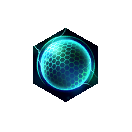
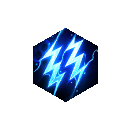
UI 알파 이미지 수정버전

Changed region(s): [[0.2424, 0.2121, 0.7576, 0.7576]]

diff --git a/4Dollor/D3DX_Base/cUIInGame.cpp b/4Dollor/D3DX_Base/cUIInGame.cpp
@@ -80,6 +80,7 @@ void cUIInGame::rednerDead()
 {
 	if (m_Dead.enable)
 	{
+		fadeEfx();
 		m_Dead.sprite->Begin(D3DXSPRITE_ALPHABLEND);
 
 		m_Dead.rotate -= 0.02f;
@@ -388,9 +389,15 @@ void cUIInGame::renderVictory()
 						m_VictoryEfx[2].scale = 3;
 					}
 				}
+				m_VictoryEfx[i].sprite->Draw(m_VictoryEfx[i].texture,
+					&rc,
+					&D3DXVECTOR3(m_VictoryEfx[i].imgInfo.Width / 2, m_VictoryEfx[i].imgInfo.Height / 2, 0),
+					NULL,
+					D3DCOLOR_ARGB(m_VictoryEfx[i].alpha, 255, 255, 255));
 			}
 			if (i == 2)
 			{
+				fadeEfx();
 				m_VictoryEfx[i].rotate += 0.01;
 
 				m_VictoryEfx[i].alpha += 10;
@@ -443,6 +450,28 @@ void cUIInGame::renderVictory()
 			m_VictoryEfx[i].sprite->End();
 		}
 	}
+}
+
+void cUIInGame::fadeEfx()
+{
+	m_Fade.sprite->Begin(D3DXSPRITE_ALPHABLEND);
+	m_Fade.alpha = 125;
+	D3DXMatrixAffineTransformation2D(&m_Fade.matWorld,
+		m_Fade.scale,
+		NULL,
+		NULL,
+		&D3DXVECTOR2(0, 0));
+
+	m_Fade.sprite->SetTransform(&m_Fade.matWorld);
+	RECT rc;
+	SetRect(&rc, 0, 0, WINX, WINY);
+	m_Fade.sprite->Draw(m_Fade.texture,
+		&rc,
+		NULL,
+		NULL,
+		D3DCOLOR_ARGB(m_Fade.alpha, 255, 255, 255));
+
+	m_Fade.sprite->End();
 }
 
 void cUIInGame::setupDeadBG(wstring filePath)
